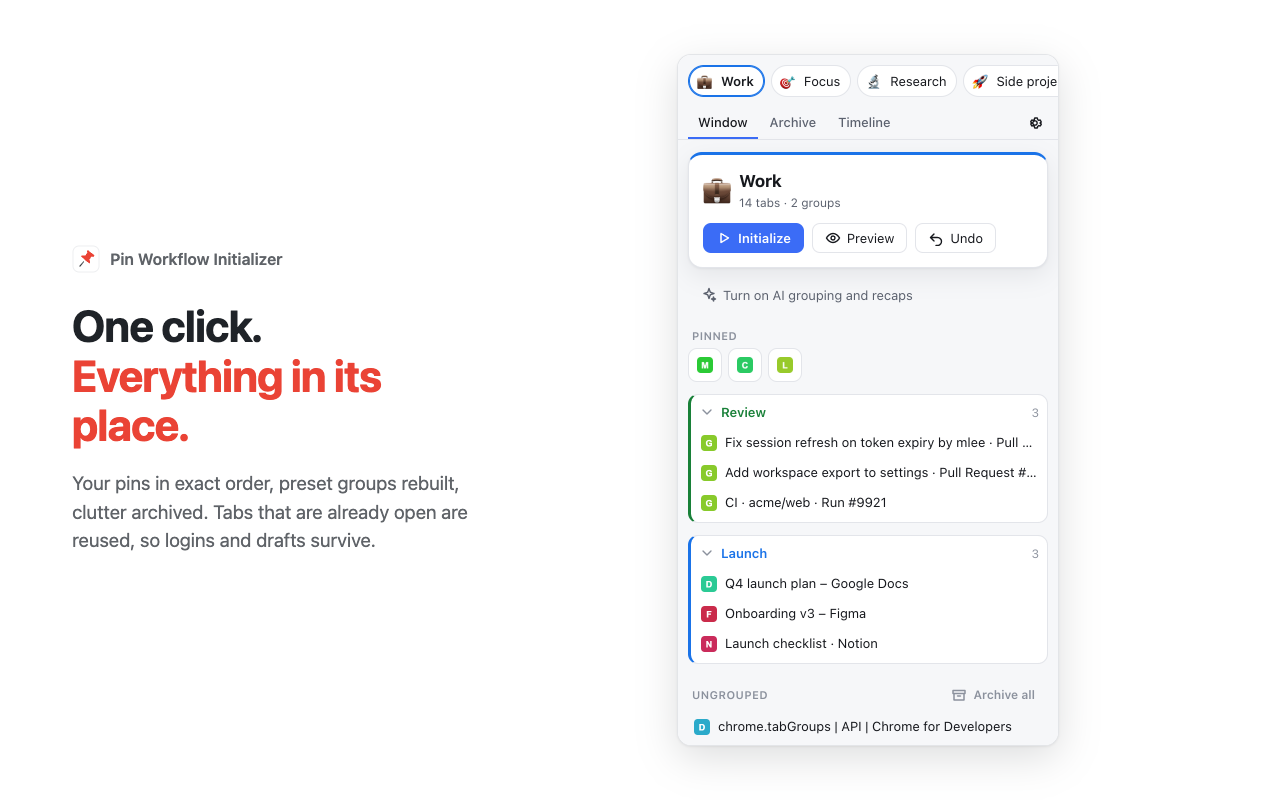
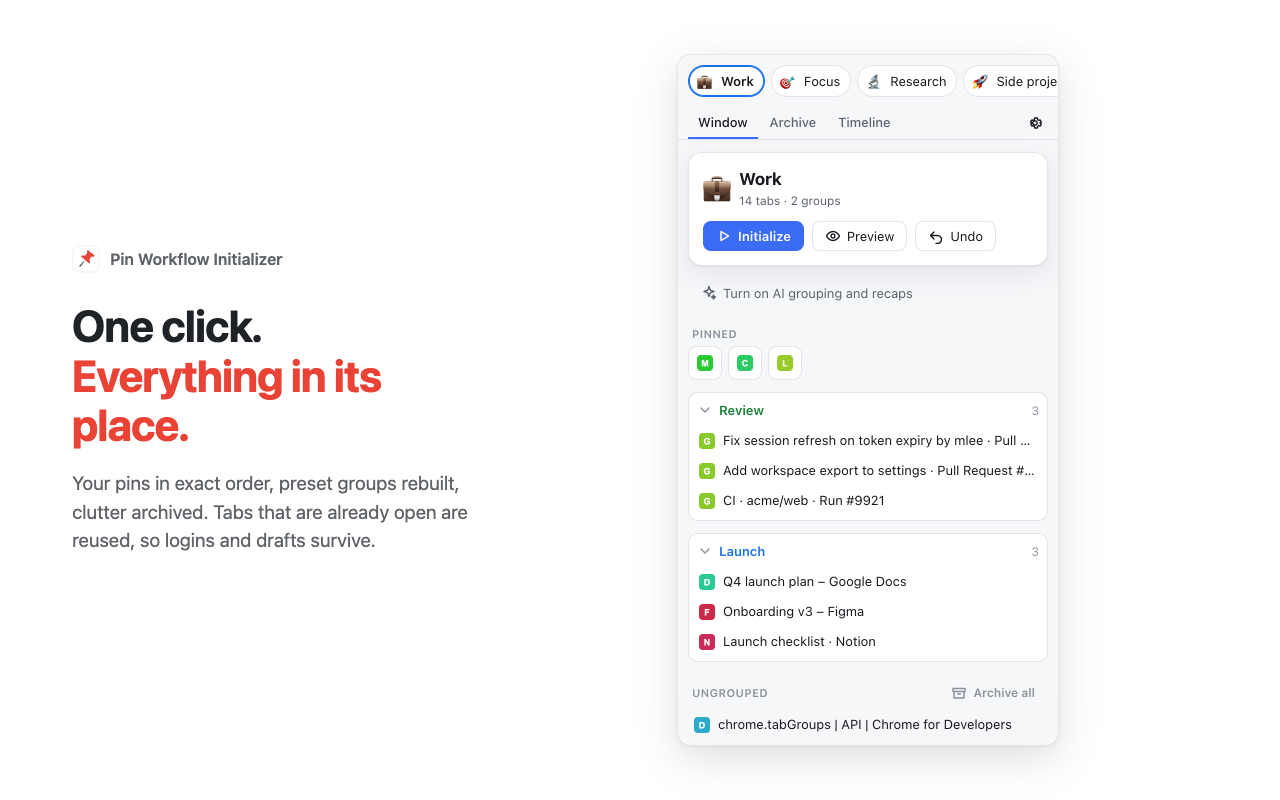
Remove toolbar badge and coloured accent bars; 2.0.1
The emoji badge rendered as a grey block on the toolbar icon. Cards no
longer carry a coloured left/top stripe; group colour stays on the title.

diff --git a/src/entrypoints/background.ts b/src/entrypoints/background.ts
@@ -1,15 +1,10 @@
 import { normalizeUrl, hostOf } from '../core/match';
 import { evaluateRules } from '../core/rules';
-import type { GroupColor, Settings, Workspace } from '../core/types';
+import type { Settings, Workspace } from '../core/types';
 import { chromeApi } from '../engine/chrome-api';
 import { chromeStore, ensureInitialized, KEYS } from '../engine/chrome-store';
 import { Engine } from '../engine/engine';
 import type { RpcMap, RpcName, RpcRequest, RpcResponse } from '../lib/rpc';
-
-const COLOR_HEX: Record<GroupColor, string> = {
-  grey: '#5f6368', blue: '#1a73e8', red: '#d93025', yellow: '#f9ab00', green: '#188038',
-  pink: '#d01884', purple: '#9334e6', cyan: '#007b83', orange: '#fa903e',
-};
 
 export default defineBackground(() => {
   const notify = (title: string, message: string) => {
@@ -39,8 +34,8 @@ export default defineBackground(() => {
 
   // ------------------------------------------------------------ badge
   async function showWorkspace(ws: Workspace) {
-    await chrome.action.setBadgeText({ text: ws.icon });
-    await chrome.action.setBadgeBackgroundColor({ color: COLOR_HEX[ws.color] });
+    // No badge: the active workspace shows in the tooltip only (clears badges left by older versions).
+    await chrome.action.setBadgeText({ text: '' });
     await chrome.action.setTitle({ title: `Pin Workflow · ${ws.name}` });
   }
   async function refreshBadge() {

diff --git a/src/entrypoints/options/options.css b/src/entrypoints/options/options.css
@@ -174,14 +174,12 @@ h3 {
   padding: 0 6px 0 10px;
   border-radius: 10px;
   border: 1px solid var(--line);
-  border-left: 3px solid var(--g);
   background: var(--bg);
   cursor: pointer;
 }
 .ws-item[aria-current='true'] {
   box-shadow: 0 0 0 2px var(--accent-soft);
   border-color: var(--accent);
-  border-left-color: var(--g);
 }
 .ws-emoji {
   font-size: 18px;
@@ -248,7 +246,6 @@ h3 {
   padding: 10px;
   border-radius: 10px;
   border: 1px solid var(--line);
-  border-left: 3px solid var(--g);
 }
 .danger-zone {
   margin-top: 22px;

diff --git a/src/entrypoints/sidepanel/panel.css b/src/entrypoints/sidepanel/panel.css
@@ -70,7 +70,6 @@ body {
   border-radius: 14px;
   background: var(--bg);
   border: 1px solid var(--line);
-  border-top: 3px solid var(--g);
   box-shadow: var(--shadow);
   display: flex;
   flex-direction: column;
@@ -129,7 +128,6 @@ body {
 .group {
   background: var(--bg);
   border: 1px solid var(--line);
-  border-left: 3px solid var(--g);
   border-radius: 10px;
   padding: 2px 4px 4px;
 }
